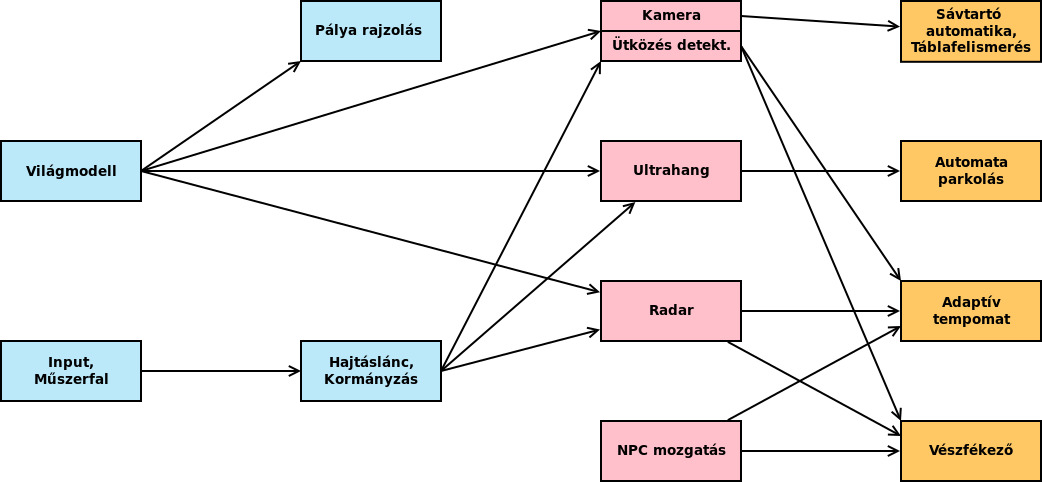
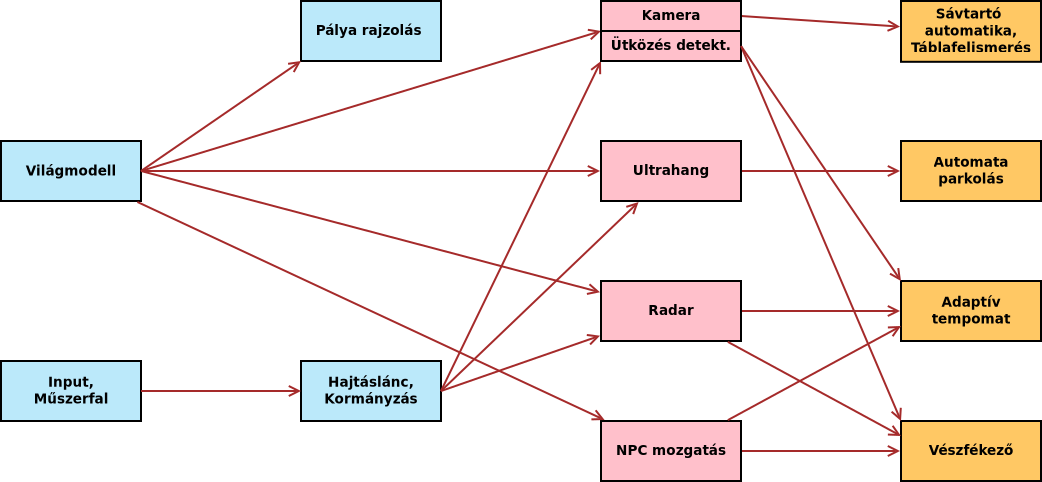
Recolor dependency lines

diff --git a/src/sprints.md b/src/sprints.md
@@ -1,19 +1,13 @@
-# User story-k
+# Sprintek
 
-A félév során minden csapat 3 sprintet teljesít, minden sprintre egy-egy user story-t kap. Hat csapat esetén így a teljes elkészítendő szoftver 12 részre van bontva. A csapatok feladata a user story-k megértése, felbontása egyhuzamban elvégezhető feladatokra (task), ezekhez felelőst és határidőt rendelve.
+A félév során minden csapat 3 sprintet teljesít, minden sprintre egy-egy user story-t kap. 4 csapat esetén így a teljes elkészítendő szoftver 12 részre van bontva. A csapatok feladata a user story-k megértése, felbontása egyhuzamban elvégezhető feladatokra (task), ezekhez felelőst és határidőt rendelve.
 
-Szintén a csapatok feladat a feladatok közötti függőségek azonosítása és az erőforrások (idő, fejlesztő) oly módon történő beosztása, hogy a határidőre minden elkészüljön. Az egyes user story-k között nem csak sprinteken átívelő függőségek lehetnek, hanem sprinten belüliek is. Ilyen esetben az érintett csapattal egyeztetve kell az egyes feladatok prioritásait meghatározni.
+Szintén a csapatok feladat a feladatok közötti függőségek azonosítása és az erőforrások (idő, fejlesztő) oly módon történő beosztása, hogy a határidőre minden elkészüljön. Az egyes user story-k között nem csak sprinteken átívelő függőségek lehetnek, hanem sprinten belüliek is. Ilyen esetben az érintett csapattal egyeztetve kell az egyes (rész)feladatok prioritásait meghatározni.
 
-A user story-k függőségi gráfja alább látható, sprintenként színezve. <!--Az „Autó pozíció” nem user story, csupán az átláthatóság (kevesebb nyíl) érdekében lett berajzolva.-->
+A user story-k függőségi gráfja alább látható, sprintenként színezve.
 
 ![](images/dependencies_4_team.png)
 
 A következő ábrán pedig a user story-k a felelős csapatok alapján van színezve.
 
 ![](images/team_user_stories.png)
-
-<!--## Az egyes sprintek feladatai
-
-- [1. sprint](sprint_1.md)
-- [2. sprint](sprint_2.md)
-- [3. sprint](sprint_3.md)-->
